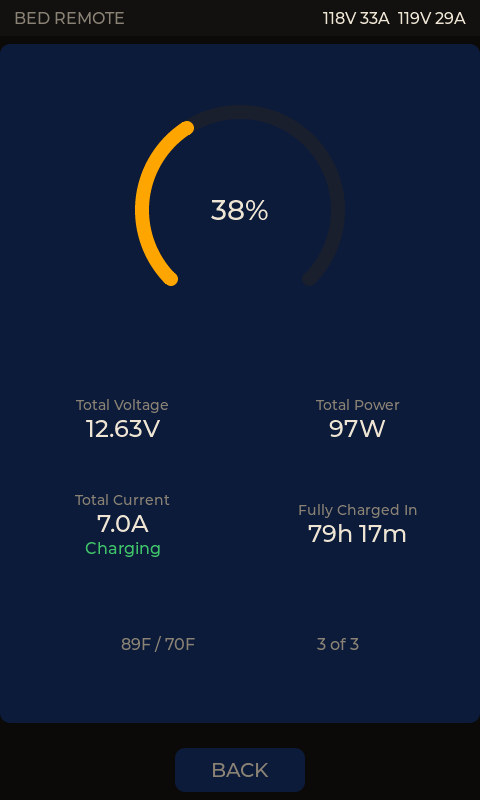
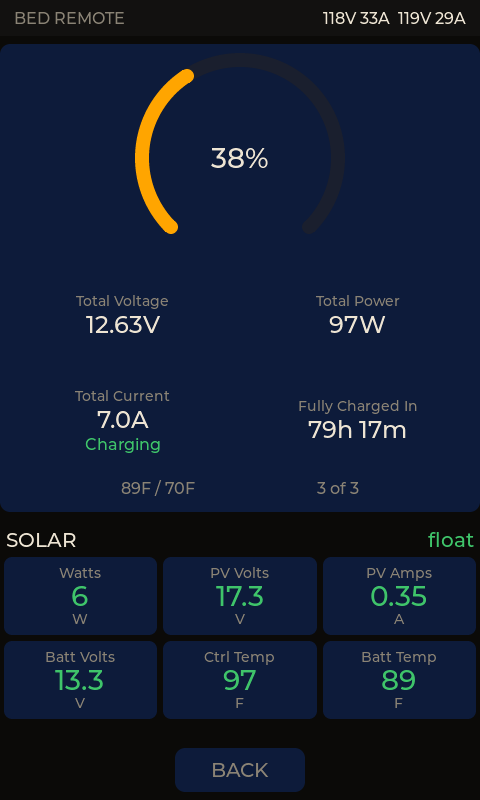
docs: fix SYSTEM.md mermaid, add solar screens, record measured LVGL peaks
The architecture diagram never rendered: a backslash-escaped quote inside a
mermaid node label (`ESP32-S3 7\" panel`) terminates the string early and
the parser chokes on the rest, so GitHub showed the whole block as raw text.
Mermaid has no backslash escaping in `["..."]`; use "7-inch" instead. This
came in with the main_cabinet panel and has been broken since.

SCREENS.md gains the main_cabinet SOLAR section and a regenerated
bedroom_remote battery capture showing the solar strip stacked under the
bank. Both are real simulator captures, not mockups.

SYSTEM.md memory budget: bedroom_remote's image size updated after its
reflash, measured LVGL peaks recorded for both flashed panels (87,848 B and
66,088 B), and mid_coach/ent_center called out as still on the 64 KiB pool
with their tracking issues (#55, #56).

Also documents why three boards' boot-heap rows are still blank: the console
is on UART0, so a capture over a board's native USB port is silent and looks
like a dead board.

diff --git a/docs/SYSTEM.md b/docs/SYSTEM.md
@@ -22,7 +22,7 @@ graph TB
     MID["<b>mid_coach</b> · 0x80<br/>ESP32-S3 panel<br/><i>CAN + ESP-NOW bridge</i>"]
     ENT["<b>ent_center</b> · 0x81<br/>ESP32-S3 panel<br/><i>CAN only</i>"]
     BED["<b>bedroom_remote</b> · 0x82<br/>ESP32-S3 panel<br/><i>no CAN wiring</i>"]
-    MAIN["<b>main_cabinet</b> · 0x83<br/>ESP32-S3 7\" panel<br/><i>CAN + listens to broadcasts</i>"]
+    MAIN["<b>main_cabinet</b> · 0x83<br/>ESP32-S3 7-inch panel<br/><i>CAN + listens to broadcasts</i>"]
     PROXY["<b>Bluetooth proxy basement</b><br/>classic ESP32 · headless<br/><i>in the bay</i>"]
 
     subgraph bay["Basement bay"]
@@ -123,7 +123,7 @@ build of each, 2026-08-28.
 |---|---|---|---|---|
 | `main_cabinet` | 1,280,352 B (1.22 MiB) | 4 MiB | 30.5 % | 2.78 MiB |
 | `mid_coach` | 1,282,144 B (1.22 MiB) | 4 MiB | 30.6 % | 2.78 MiB |
-| `bedroom_remote` | 1,273,456 B (1.21 MiB) | 4 MiB | 30.4 % | 2.79 MiB |
+| `bedroom_remote` | 1,273,472 B (1.21 MiB) | 4 MiB | 30.4 % | 2.79 MiB |
 | `ent_center` | 739,248 B (0.71 MiB) | 4 MiB | 17.6 % | 3.30 MiB |
 | Bluetooth proxy basement | 1,125,760 B (1.07 MiB) | 3 MiB | 35.8 % | 1.93 MiB |
 
@@ -147,9 +147,19 @@ Measured on hardware from the boot log, `main_cabinet` on 2026-08-28 with the
 | `ent_center` | not measured | — | 8 MiB fitted |
 | Bluetooth proxy basement | not measured | — | **none fitted** |
 
-Only `main_cabinet` has been measured since the LVGL change; the others are
-left blank rather than guessed. Capture the `heap_init` lines from each
-board's boot log when it is next flashed.
+Only `main_cabinet` has been measured; the others are left blank rather than
+guessed. For reference, raising its LVGL pool by 64 KiB moved its internal
+heap from 256 KiB to 192 KiB — the pool is carved straight out of internal
+RAM, so the cost is exactly the size of the increase.
+
+⚠ **Reading a panel's boot log needs its UART port, not its USB port.** The
+console is on UART0 (GPIO43/44), which on the 4.3B is the CH343 **UART**
+USB-C connector; the native USB port enumerates and flashes fine but carries
+no console, so a capture there is silent and looks like a dead board. (On
+`main_cabinet`, the 7", CAN is muxed onto the native USB pins anyway, so its
+CH343 port is the only option.) `bedroom_remote` was flashed over its native
+USB port, which is why its row is still blank. Capture the `heap_init` lines
+over UART next time any board is connected.
 
 ⚠ The proxy has **no PSRAM at all**, so its BLE + WiFi stacks and five GATTC
 connections come entirely out of internal RAM. It is the node with the least
@@ -164,8 +174,10 @@ failed allocation instead of failing cleanly.
 
 | Panel | LVGL pool | Measured peak | Headroom |
 |---|---|---|---|
-| `main_cabinet` | 128 KiB | 87.9 KiB | ~40 KiB |
-| others | 64 KiB (LVGL's Kconfig default) | not measured | unknown |
+| `main_cabinet` | 128 KiB | 87,848 B | ~43 KiB |
+| `bedroom_remote` | 128 KiB | 66,088 B | ~65 KiB |
+| `mid_coach` | **64 KiB** (issue #55) | not measured | unknown |
+| `ent_center` | **64 KiB** (issue #56) | not measured | unknown |
 
 `main_cabinet` overran the 64 KiB default: its four screens cost 78 KiB just to
 build the UI and peaked at 88 KiB while rendering. It still booted — much of
@@ -187,8 +199,17 @@ panel, at a cost of 64 KiB of internal RAM each.
 > comma-separated form is a tap *sequence*. Revert both files afterwards.
 
 > ⚠ Any panel gaining a screen or a full-width readout should have its peak
-> re-measured. `bedroom_remote` is the one to watch: it now carries the solar
-> readout stacked under the battery bank and is still built at 64 KiB.
+> re-measured. `bedroom_remote` overran the old cap by only ~550 bytes once
+> it gained the stacked solar readout — enough to matter, small enough that
+> nothing but a measurement would have caught it.
+
+⚠ **`mid_coach` and `ent_center` are still on 64 KiB** and have not been
+reflashed — tracked as issues #55 and #56. `sdkconfig.defaults` does not
+reach them: IDF applies defaults only when an `sdkconfig` does not already
+exist, so each build dir must be edited **in place** (regenerating wipes the
+real ESP-NOW peer MAC and battery MACs). Neither is in immediate danger —
+`mid_coach` has one secondary screen and `ent_center` has none — but neither
+peak has been measured.
 
 ## Communication paths
 

diff --git a/docs/SCREENS.md b/docs/SCREENS.md
@@ -56,8 +56,8 @@ Replaces the Entegra SW4-E1 panel. CAN-connected, lights only.
 ## `bedroom_remote` — "BED REMOTE"
 
 No CAN wiring and no BLE. Relays button presses to `mid_coach` over ESP-NOW;
-everything else on this panel — battery bank, shore power — arrives as
-ESP-NOW broadcasts from the basement proxy, which holds those BLE links.
+everything else on this panel — battery bank, solar, shore power — arrives
+as ESP-NOW broadcasts from the basement proxy, which holds those BLE links.
 Three screens.
 
 | Lights | Battery bank | Shore power |
@@ -76,6 +76,12 @@ drops off. Aggregation happens on the panel (`jbd_bms_combine()`) from
 per-pack broadcasts, not on the proxy — there is no bank-level reading to
 fetch from a BMS, and keeping the combining in one host-tested place is what
 lets the per-pack detail popup stay honest.
+
+**Solar shares that screen**, stacked underneath the bank rather than beside
+it: the SOC arc alone is 210 px wide on a 480 px-wide portrait panel, so a
+side-by-side row would squeeze both into uselessness. The solar strip takes a
+fixed height and the bank keeps the rest. Same six readings as the 7" panel's
+own SOLAR section below, in a tighter 3×2 grid.
 
 **Shore power.** Line 1 / Line 2 volts, amps, frequency and watts, laid out
 like the Hughes Autoformers phone app. Data arrives as an ESP-NOW broadcast
@@ -103,8 +109,9 @@ the sections and the selected one fills the rest of the screen, instead of
 the whole-screen swap the 4.3B panels use. It boots into POWER.
 
 Hardwired to the RV-C bus, and additionally listens to the ESP-NOW broadcast
-channel — the battery packs and the Power Watchdog are on BLE links held by
-the basement proxy, which no amount of CAN wiring reaches.
+channel — the battery packs, the Power Watchdog and the solar charge
+controller are on BLE links held by the basement proxy, which no amount of
+CAN wiring reaches.
 
 ### Power (the default section)
 
@@ -112,6 +119,33 @@ Battery bank and shore power side by side: everything you'd want to know
 about the coach's electrical state without touching anything.
 
 ![main cabinet power](images/main-cabinet-power.png)
+
+### Solar
+
+The Renogy MPPT charge controller, read over BLE by the basement proxy and
+broadcast. PV watts, volts and amps on the top row; battery volts and the
+controller/battery temperatures beneath.
+
+![main cabinet solar](images/main-cabinet-solar.png)
+
+The charge state sits top-right (`float` here; also `mppt`, `boost`,
+`equalize`, `current-limit`, `on`, `off`). It earns its place because a bare
+wattage cannot distinguish **0 W because it is dark** from **0 W because the
+battery is already full** — the first is night, the second is a healthy
+array with nothing left to do.
+
+PV amps carry two decimals where everything else carries one: near dawn and
+dusk the whole reading lives below 1 A, where a single decimal would round a
+real trickle to a flat `0.00`. Temperatures are °F, converted **on the
+proxy** rather than here — one producer and several consumers, so converting
+once at the source is the only arrangement in which two panels cannot
+disagree about units.
+
+Solar gets its own rail section rather than a third card on POWER because
+the simulator showed POWER is genuinely out of room: the battery bank's SOC
+arc alone is 210 px and the content pane is under 700. A side-nav panel pays
+nothing for another section — the rail navigates by target screen, not by
+position.
 
 ### Tanks
 
